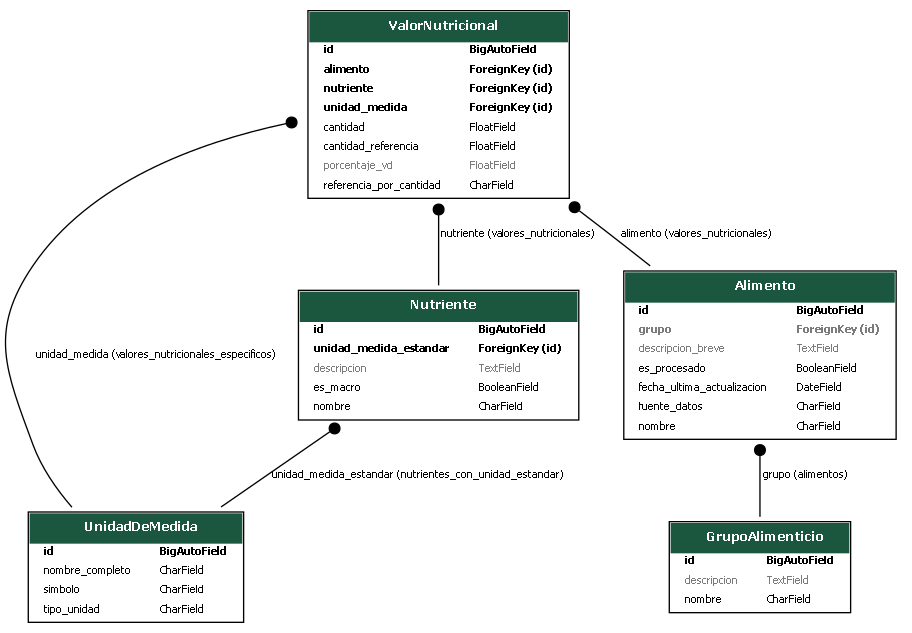
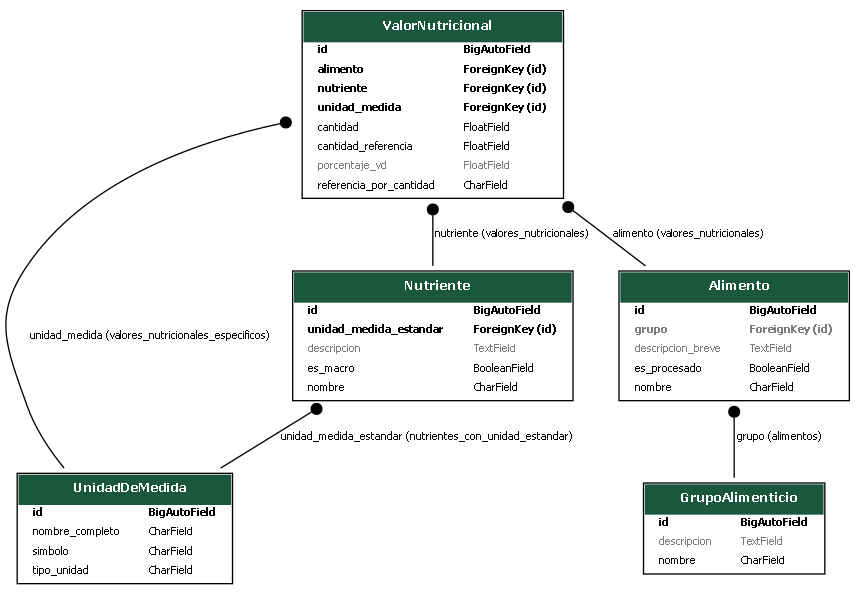
aaaaa

diff --git a/ruta/models.py b/ruta/models.py
@@ -17,7 +17,6 @@ class Alimento(models.Model):
     nombre = models.CharField(max_length=100, unique=True, verbose_name="Nombre del Alimento")
     descripcion_breve = models.TextField(blank=True, null=True, verbose_name="Descripción Breve")
     es_procesado = models.BooleanField(default=False, verbose_name="Es Procesado")
-    fuente_datos = models.CharField(max_length=100, verbose_name="Fuente de Datos")
     grupo = models.ForeignKey(
         GrupoAlimenticio,
         on_delete=models.SET_NULL,

diff --git a/ruta/migrations/0005_remove_alimento_fuente_datos.py b/ruta/migrations/0005_remove_alimento_fuente_datos.py
@@ -1,0 +1,17 @@
+# Generated by Django 5.2 on 2025-06-04 20:23
+
+from django.db import migrations
+
+
+class Migration(migrations.Migration):
+
+    dependencies = [
+        ('ruta', '0004_remove_alimento_fecha_ultima_actualizacion'),
+    ]
+
+    operations = [
+        migrations.RemoveField(
+            model_name='alimento',
+            name='fuente_datos',
+        ),
+    ]

diff --git a/README.md b/README.md
@@ -168,7 +168,7 @@ Esta documentación detalla los endpoints principales RESTful disponibles en la 
     * **Ejemplo de Respuesta (200 OK):**
         ```json
         [
-            { "id": 101, "nombre": "Manzana Roja", "es_procesado": false, "grupo": 1 }
+            { "id": 101, "nombre": "Manzana Roja", "es_procesado": false, "grupo": 1, "descripcion_breve": "Fruta crujiente y dulce"}
         ]
         ```
 
@@ -186,7 +186,7 @@ Esta documentación detalla los endpoints principales RESTful disponibles en la 
     * **Ejemplo de Respuesta (200 OK):**
         ```json
         [
-            { "id": 1, "nombre": "Proteínas", "es_macro": true, "unidad_medida_estandar": 1 }
+            { "id": 1, "nombre": "Proteínas", "es_macro": true, "unidad_medida_estandar": 1, "descripcion": "Macronutriente esencial para la construccion muscular" }
         ]
         ```
 
